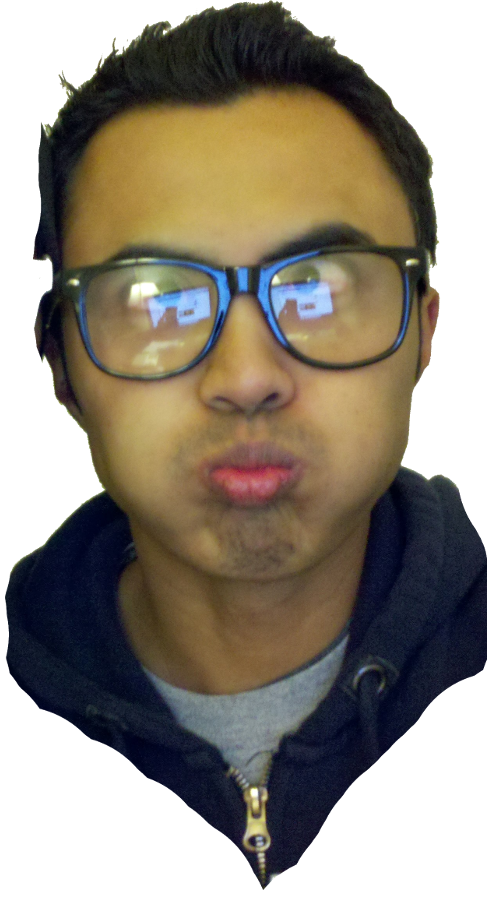
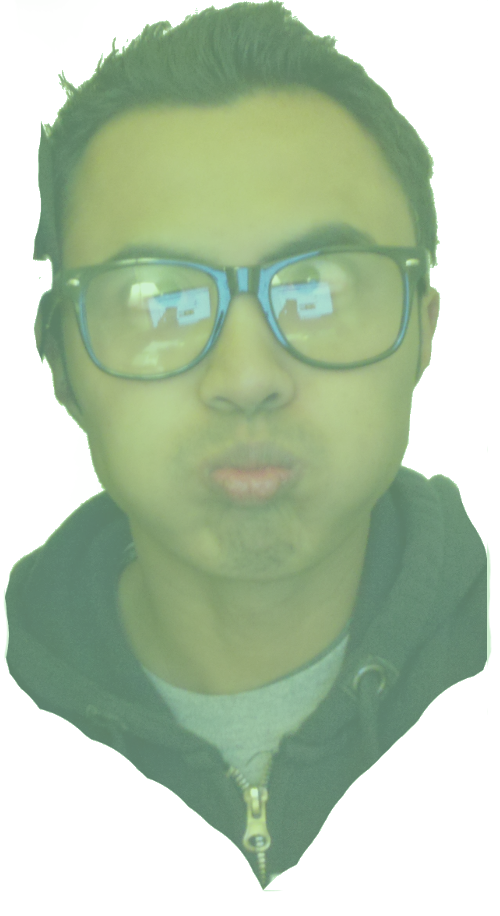
Added face image on about me page

diff --git a/build/edgarportfolioAPR2017.1.0.0.css b/build/edgarportfolioAPR2017.1.0.0.css
@@ -97,7 +97,7 @@ contacts
   }
   .edgar-anima {
     background-image: url(../images/edgar.png);
-    background-size: 50%;
+    background-size: 39%;
     /*background-attachment: fixed;*/
     background-repeat: no-repeat;
     background-position: center center;
@@ -187,6 +187,9 @@ nav
   height: 8vh;
   z-index: 10;
 }
+.nav ul > li:hover {
+  cursor: pointer;
+}
 .nav ul > li {
   display: inline-block;
   list-style: none;
@@ -221,6 +224,9 @@ about me
   width: 35%;
   border-radius: 50%;
   padding-top: 10px;
+}
+.edgar-anima {
+  display: none;
 }
 /***************************
 projects
@@ -402,24 +408,34 @@ contacts
     line-height: 2;
   }
   .animation {
-    width: 50%;
+    width: 100%;
     text-align: right;
+  }
+  .animation h3:nth-child(1) {
+    text-align: left;
+  }
+  .animation h3:nth-child(2) {
+    text-align: center;
+  }
+  .animation h3:nth-child(3) {
+    margin-right: 10%;
   }
   .edgar-anima {
     display: inline-block;
-    width: 59%;
+    width: 56%;
     height: 800px;
     vertical-align: top;
+    padding-left: 41px;
   }
   /***************************
 	projects
 	****************************/
   .projects {
     text-align: center;
-    height: 101vh;
+    height: 126vh;
   }
   .projects .project-hdr {
-    margin: 1.5em 0;
+    margin: 2.5em 0;
   }
   .project {
     display: inline-block;
@@ -429,13 +445,16 @@ contacts
   /***************************
 	contacts
 	****************************/
+  .contacts-hdr {
+    margin: 64px 0 10px 0;
+  }
   .contact-sect {
     width: 49%;
     display: inline-block;
   }
   .contact-sect ul > a > li {
     padding: 30px;
-    padding-left: 258px;
+    padding-left: 297px;
     border: none;
   }
   .contact-sect ul > a > li img {
@@ -506,13 +525,13 @@ contacts
 	nav
 	****************************/
   .nav ul > li {
-    font-size: 25px;
+    font-size: 21px;
   }
   /***************************
 	about me
 	****************************/
   .about-cont .desc {
-    font-size: 24px;
+    /*font-size: 24px;*/
   }
   /***************************
 	projects
@@ -545,11 +564,24 @@ contacts
   /***************************
 	about me
 	****************************/
+  .about-hdr {
+    color: #3c9b40;
+  }
   .about-cont {
     text-align: left;
   }
   .about-cont .desc {
     line-height: 1.5;
+  }
+  .animation {
+    font-size: 70px;
+    color: #3c9b40;
+  }
+  .animation h3 {
+    line-height: 3;
+  }
+  .about-quote > strong {
+    color: #3c9b40;
   }
   /***************************
 	projects
@@ -557,6 +589,9 @@ contacts
   /***************************
 	contacts
 	****************************/
+  .contacts-hdr {
+    font-size: 3em;
+  }
 }
 /****************************
 Variables and Imports

diff --git a/css/display.less b/css/display.less
@@ -90,6 +90,11 @@ nav
 	width: 100%;
 	height: 8vh;
 	z-index: 10;
+
+	ul > li:hover {
+		cursor: pointer;
+	}
+
 	ul > li {
 		display: inline-block;
 		list-style: none;
@@ -133,6 +138,10 @@ about me
 	width: 35%;
     border-radius: 50%;
     padding-top: 10px;
+}
+
+.edgar-anima {
+	display: none;
 }
 
 
@@ -382,18 +391,28 @@ contacts
 	}
 
 	.animation {
-		width: 50%;
+		width: 100%;
     	text-align: right;
+		h3:nth-child(1) {
+			text-align: left;
+		}
+
+		h3:nth-child(2) {
+			text-align: center;
+		}    	
+
+		h3:nth-child(3) {
+			margin-right: 10%;
+		}
 	}
 
 	.edgar-anima {
 		display: inline-block;
-		width: 59%;
+		width: 56%;
 		height: 800px;
     	vertical-align: top;
+    	padding-left: 41px;
 	}
-
-
 
 
 
@@ -402,10 +421,10 @@ contacts
 	****************************/
 	.projects {
 		text-align: center;
-		height: 101vh;
+		height: 126vh;
 
 		.project-hdr {
-			margin: 1.5em 0;
+			margin: 2.5em 0;
 		}
 	}
 
@@ -420,14 +439,17 @@ contacts
 	/***************************
 	contacts
 	****************************/
+	.contacts-hdr {
+		margin: 64px 0 10px 0;
+	}
+
 	.contact-sect {
 		width: 49%;
     	display: inline-block;
 
-
 		ul > a > li {
 		    padding: 30px;
-		    padding-left: 258px;
+		    padding-left: 297px;
 		    border: none;
 
 		    img {

diff --git a/css/typography.less b/css/typography.less
@@ -80,7 +80,7 @@ contacts
 	.nav {
 
 		ul > li {
-			font-size: 25px;
+			font-size: 21px;
 		}
 	}
 
@@ -90,7 +90,7 @@ contacts
 	.about-cont {
 
 		.desc {
-			font-size: 24px;
+			/*font-size: 24px;*/
 		}
 	}
 
@@ -143,10 +143,31 @@ contacts
 	/***************************
 	about me
 	****************************/
+	.about-hdr {
+		color: rgb(60,155,64);
+	}
+
 	.about-cont {
 		text-align: left;
 		.desc {
 			line-height: 1.5;
+		}
+	}
+
+	.animation {
+		font-size: 70px;
+		color: rgb(60,155,64);
+
+		h3 {
+			line-height: 3;
+		}
+
+	}
+
+	.about-quote {
+
+		> strong {
+			color: rgb(60,155,64);
 		}
 	}
 
@@ -159,5 +180,7 @@ contacts
 	/***************************
 	contacts
 	****************************/
-
+	.contacts-hdr {
+		font-size: 3em;
+	}
 }

diff --git a/css/background.less b/css/background.less
@@ -131,7 +131,7 @@ contacts
 
 	.edgar-anima {
 		background-image: url(../images/edgar.png);
-		background-size: 50%;
+		background-size: 39%;
 		/*background-attachment: fixed;*/
 		background-repeat: no-repeat;
 		background-position: center center;
